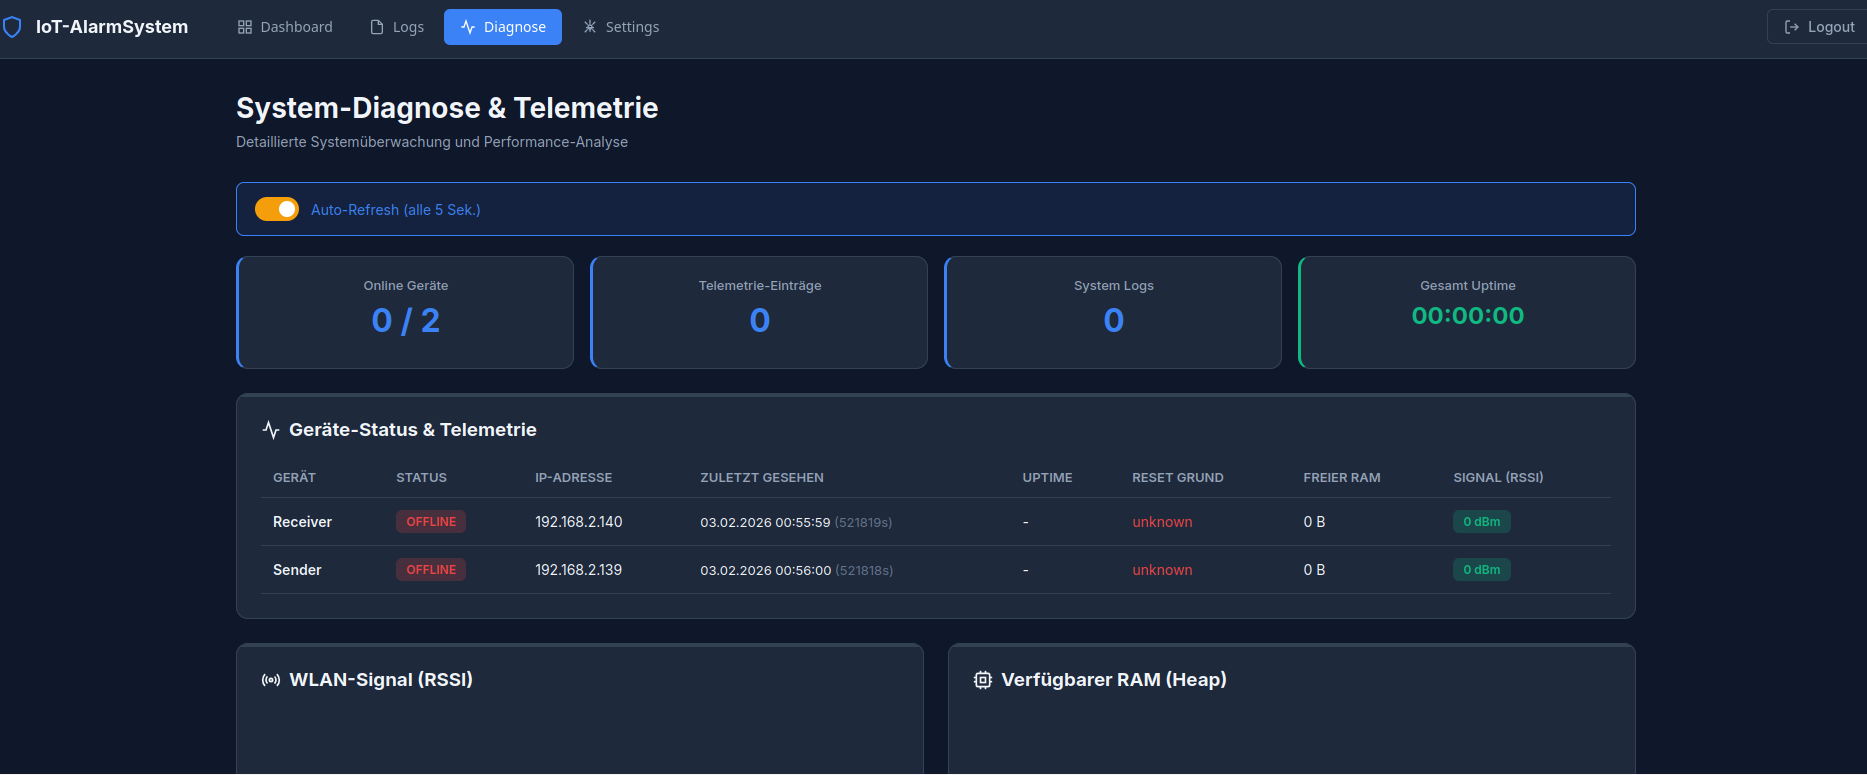
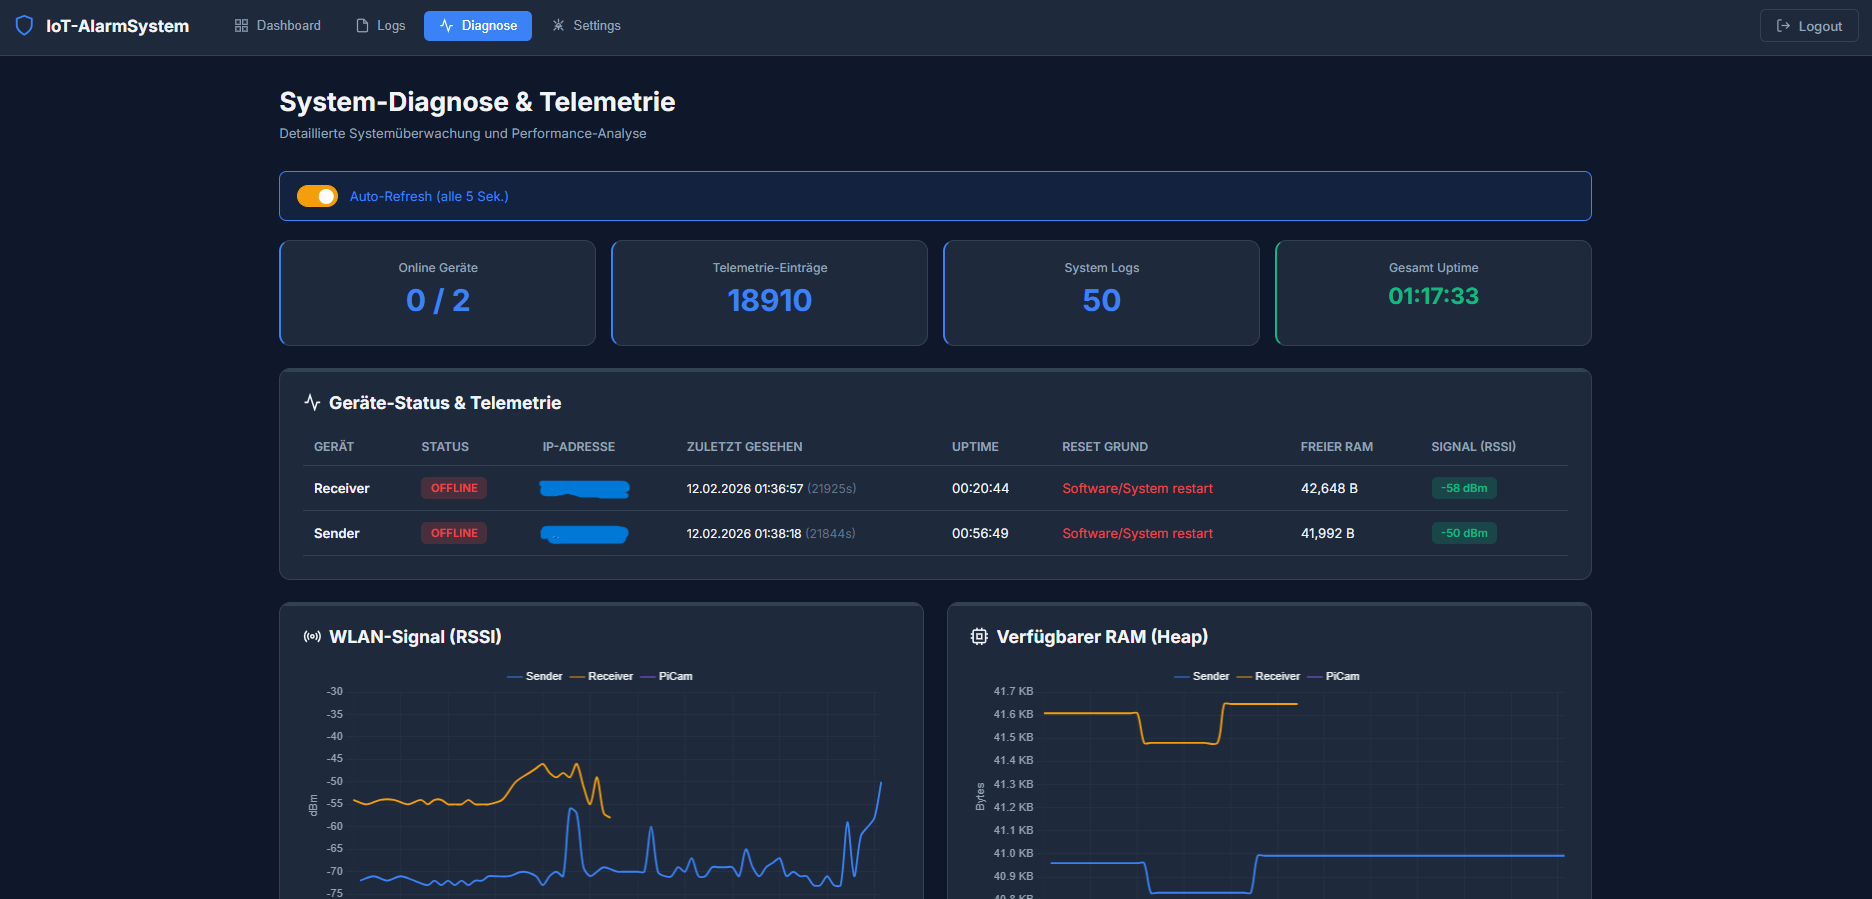
Sanitize documentation, screenshots and default configuration for public release

diff --git a/README.md b/README.md
@@ -323,3 +323,12 @@ Der Uno R3 fungiert als **intelligenter Sensor-Hub** und wurde softwareseitig vo
 - **[Claude-Sonnet 4.5 & Opus 4.5/4.6](https://claude.ai/)** – Code-Optimierung und Debugging / Code optimization and debugging
 - **[ChatGPT 5.2 & 4o](https://chat.openai.com/)** – Konzeptentwicklung und Problemlösung / Concept development and problem solving
 - **[Google Gemini 3](https://gemini.google.com/)** – Alternative Perspektiven und Validierung / Alternative perspectives and validation
+
+---
+
+## Sicherheitshinweis / Security Note  
+Standard-Zugangsdaten, IP-Adressen und Konfigurationswerte, die in diesem Repository gezeigt werden, dienen ausschließlich als Platzhalter und müssen vor einem produktiven Einsatz zwingend angepasst werden.  
+Sie wurden bewusst für die öffentliche Veröffentlichung bereinigt.  
+
+ Default credentials, IP addresses and configuration values shown in this repository are placeholders and must be changed before deployment.  
+ They were intentionally sanitized for public release.  
